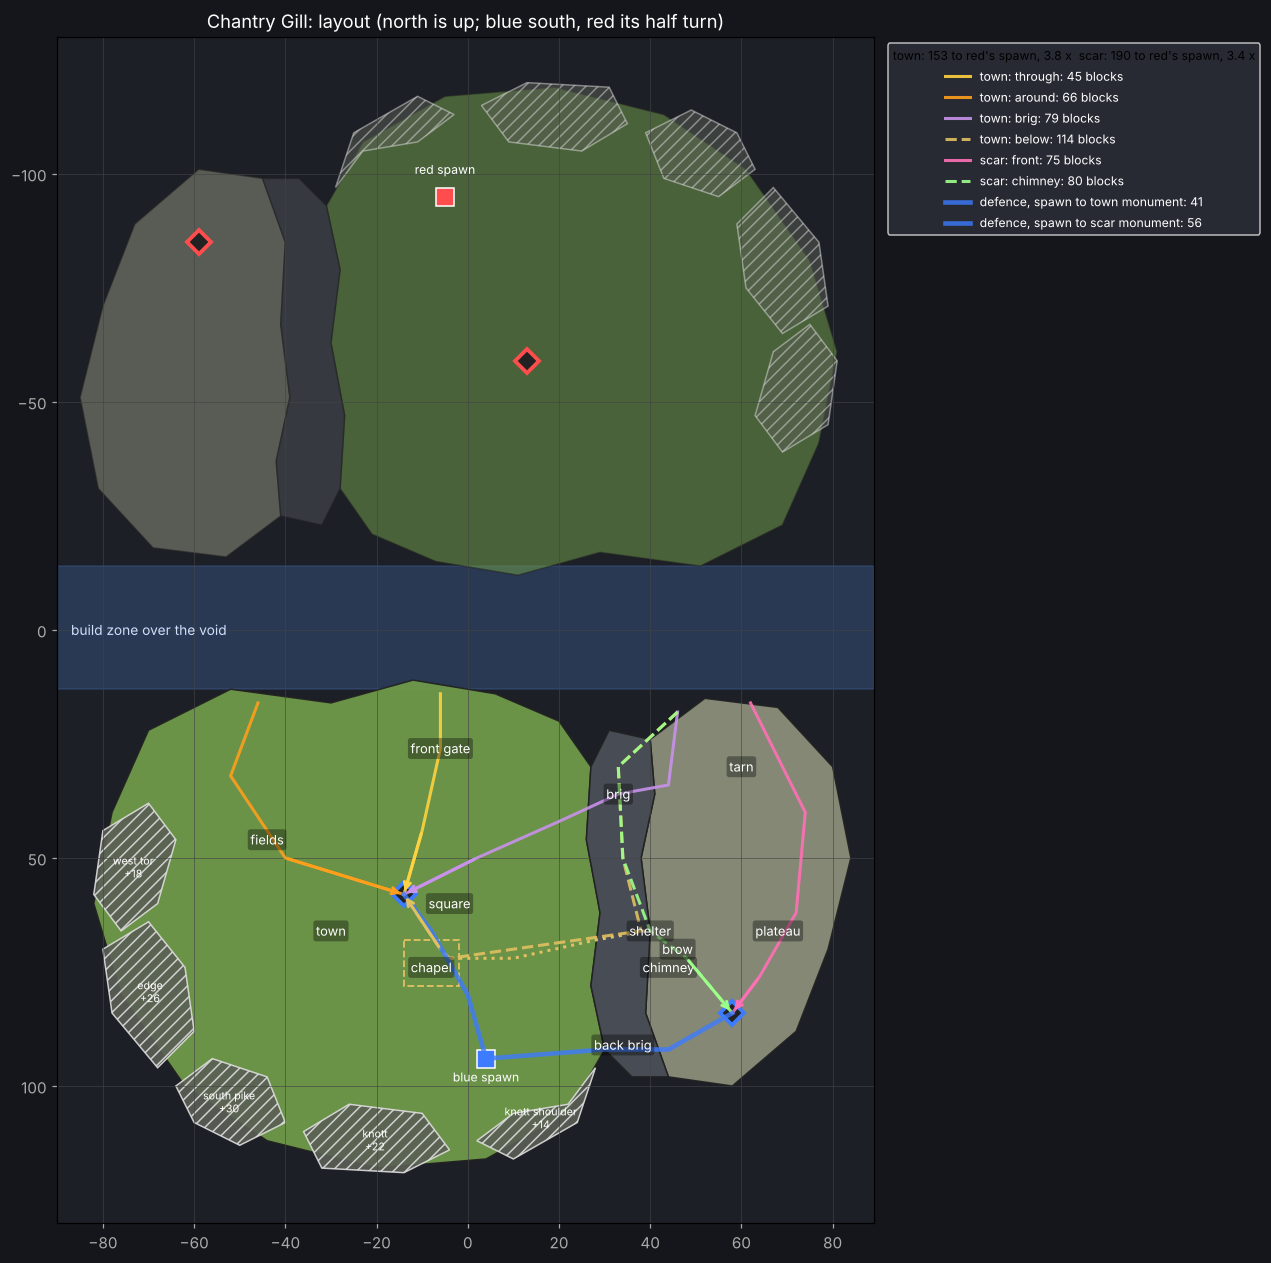
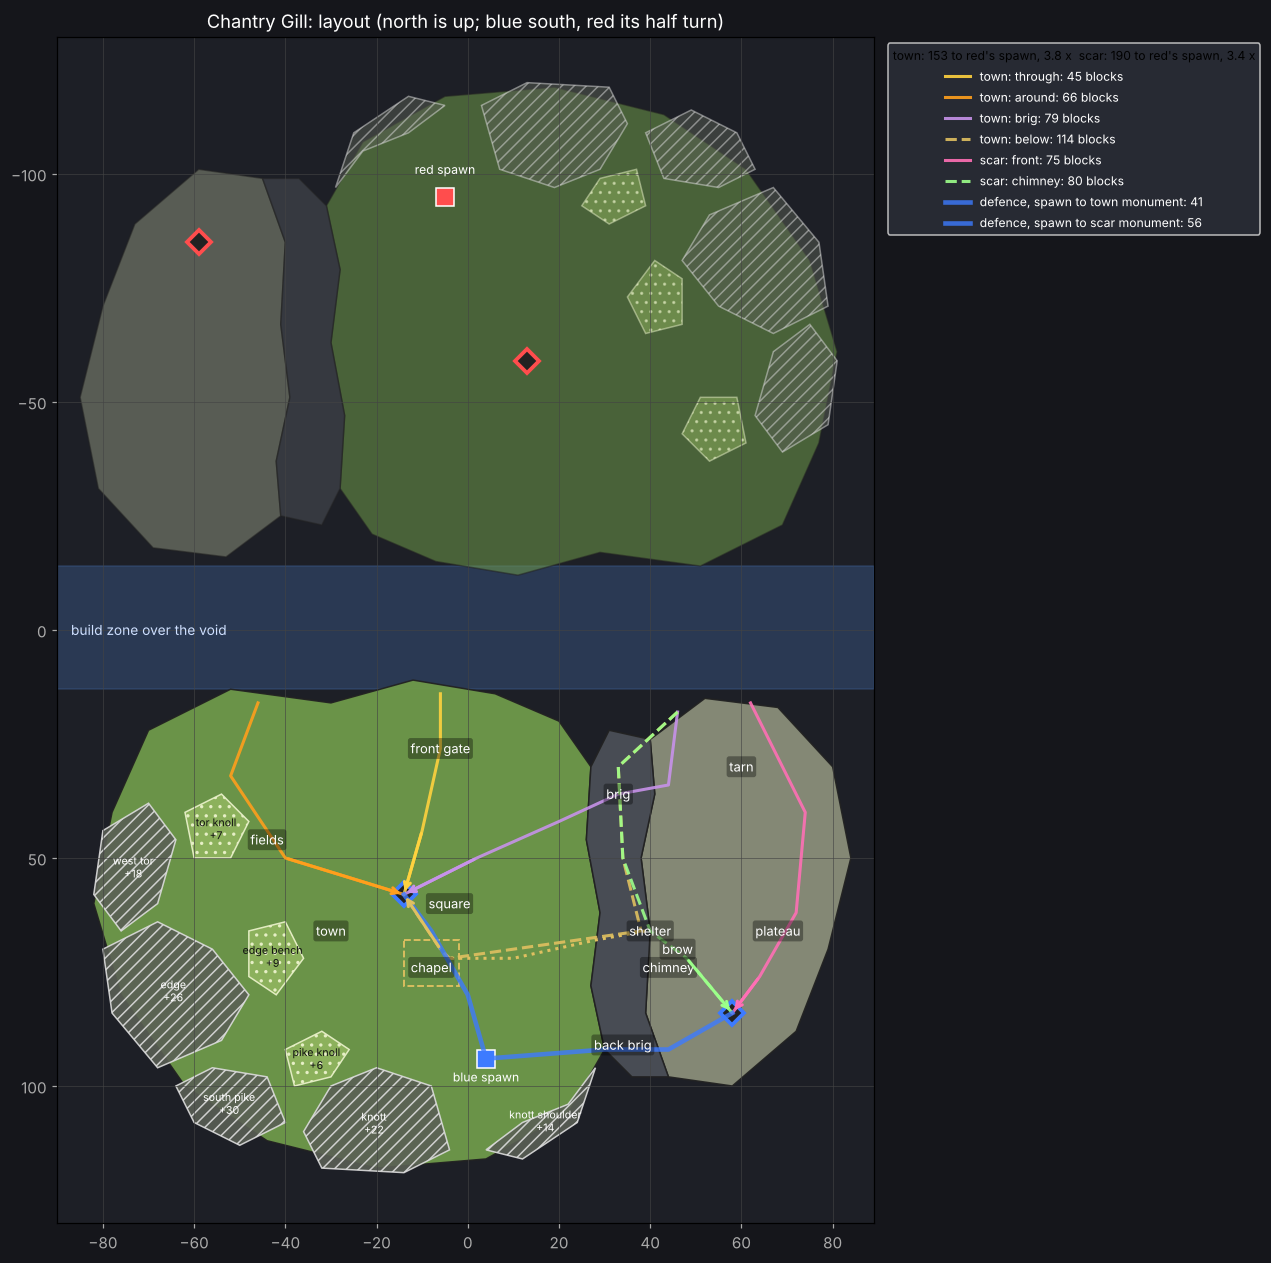
Chantry Gill layout: foothills in front of the heights
Three low hills stand before the scenery in a first and second row, played
on: the tor knoll, the edge bench and the pike knoll. The edge and the knott
reach further into the fell than their neighbours, so the heights no longer
share one depth.

Claude-Session: https://claude.ai/code/session_01SkxaMovP21NqxJRVezmVa6

diff --git a/freeform/lib/boards/chantry-gill/scripts/layout.py b/freeform/lib/boards/chantry-gill/scripts/layout.py
@@ -19,10 +19,17 @@ GILL = [MAIN[7], MAIN[8], MAIN[9], MAIN[10], MAIN[11], (36, 98), (44, 98), SIDE[
 # faces; it frames the board and nobody fights on it
 SCENERY = {                                # each a hill or a plateau of its own, its own height, a notch between
     "west tor": ([(-82, 58), (-80, 44), (-70, 38), (-64, 46), (-68, 60), (-76, 66)], 18),
-    "edge": ([(-80, 70), (-70, 64), (-62, 74), (-60, 88), (-68, 96), (-78, 84)], 26),
-    "south pike": ([(-64, 100), (-56, 94), (-44, 98), (-40, 108), (-50, 113), (-60, 108)], 30),
-    "knott": ([(-36, 110), (-26, 104), (-10, 106), (-4, 114), (-14, 119), (-32, 118)], 22),
-    "knott shoulder": ([(2, 112), (10, 106), (22, 104), (28, 96), (24, 108), (10, 116)], 14),
+    "edge": ([(-80, 70), (-68, 64), (-56, 70), (-48, 80), (-54, 90), (-68, 96), (-78, 84)], 26),
+    "south pike": ([(-64, 100), (-56, 96), (-44, 98), (-40, 108), (-50, 113), (-60, 108)], 30),
+    "knott": ([(-36, 110), (-30, 100), (-20, 96), (-8, 100), (-4, 114), (-14, 119), (-32, 118)], 22),
+    "knott shoulder": ([(4, 114), (12, 108), (22, 104), (28, 96), (24, 108), (12, 116)], 14),
+}
+# foothills: lower ground stood in front of the heights in a first and second row; played on, and the cover and
+# height a flank is fought from
+FOOTHILLS = {
+    "tor knoll": ([(-62, 40), (-54, 36), (-48, 42), (-52, 50), (-60, 50)], 7),
+    "edge bench": ([(-48, 66), (-40, 64), (-36, 72), (-42, 80), (-48, 76)], 9),
+    "pike knoll": ([(-40, 92), (-32, 88), (-26, 92), (-30, 98), (-38, 100)], 6),
 }
 BUILD_Z = (-14, 13)                       # the build zone over the void between the teams, the board's whole width
 X_RANGE = (-90, 89)

diff --git a/freeform/lib/boards/chantry-gill/scripts/sketch_layout.py b/freeform/lib/boards/chantry-gill/scripts/sketch_layout.py
@@ -29,6 +29,13 @@ for team, f in (("blue", lambda p: p), ("red", L.turn)):
             cx = sum(p[0] for p in poly) / len(poly)
             cz = sum(p[1] for p in poly) / len(poly)
             ax.text(cx, cz, f"{name}\n+{rise}", color="w", ha="center", va="center", fontsize=7)
+    for name, (poly, rise) in L.FOOTHILLS.items():
+        ax.add_patch(Polygon([f(p) for p in poly], closed=True, fc="#8fb35e", ec="#e8f0c8", lw=1, hatch="..",
+                             alpha=0.5 if pale else 0.95))
+        if not pale:
+            cx = sum(p[0] for p in poly) / len(poly)
+            cz = sum(p[1] for p in poly) / len(poly)
+            ax.text(cx, cz, f"{name}\n+{rise}", color="#111", ha="center", va="center", fontsize=7)
     sx, sz = f(L.SPAWN)
     c = "#3d7bff" if team == "blue" else "#ff4d4d"
     ax.plot(sx, sz, "s", ms=12, mfc=c, mec="w")

diff --git a/freeform/lib/boards/chantry-gill/PLAN.md b/freeform/lib/boards/chantry-gill/PLAN.md
@@ -18,7 +18,8 @@ Blue holds the south (z > 0); red is blue's image under the half turn, (x, z) ->
 | Land | What it is |
 |---|---|
 | **Main island**, the fell | about 110 across and 105 deep: the town in its middle, the spawn at its back, fields between the town and the west |
-| **Scenery**, five heights | down the west and across the back: the west tor (+18), the edge (+26), the south pike (+30), the knott (+22) and its shoulder (+14), each a hill or plateau of its own with a notch of fell between it and the next, fenced off from play by its faces; the spawn stands under the gap between the knott and its shoulder |
+| **Scenery**, five heights | down the west and across the back: the west tor (+18), the edge (+26, reaching furthest into the fell), the south pike (+30), the knott (+22) and its shoulder (+14), each a hill or plateau of its own with a notch of fell between it and the next, fenced off from play by its faces; the spawn stands under the gap between the knott and its shoulder |
+| **Foothills**, three | stood in front of the heights in a first and second row and played on: the tor knoll (+7) at the west coast, the edge bench (+9) where the edge reaches furthest into the fell, the pike knoll (+6) by the spawn; the cover and the height a flank is fought from |
 | **Side island**, the Scar | about 45 across and 85 deep, east of the main island: the tarn at its front, the plateau behind its leaning brow |
 | **The Gill** | the gap between the two islands is a gorge, not void: 8 to 12 across, its floor about 9 under the town's rim; the brig crosses it near the front and a timber bridge behind the brow; it opens to the void at both ends |
 | **The void** | between the teams, from z -14 to 13, crossed by a build zone the board's whole width |
